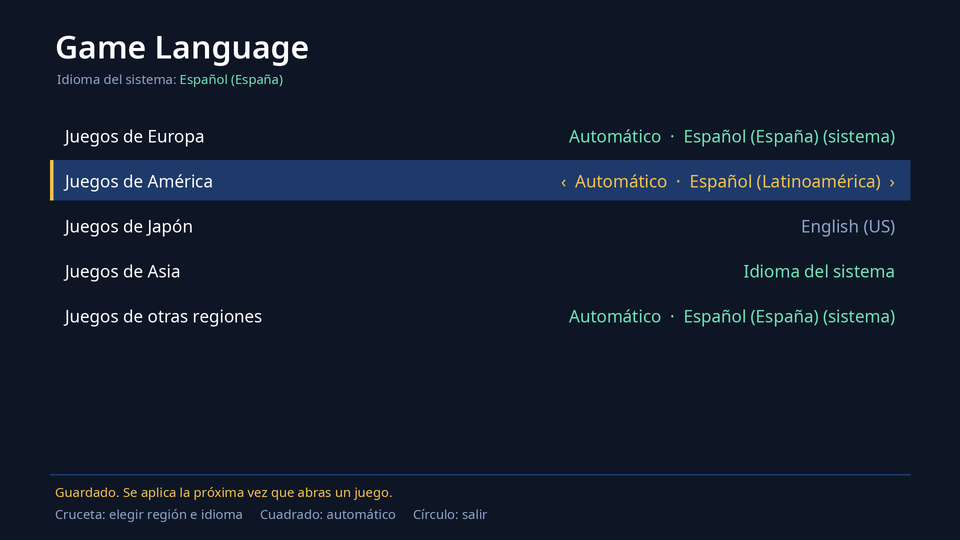
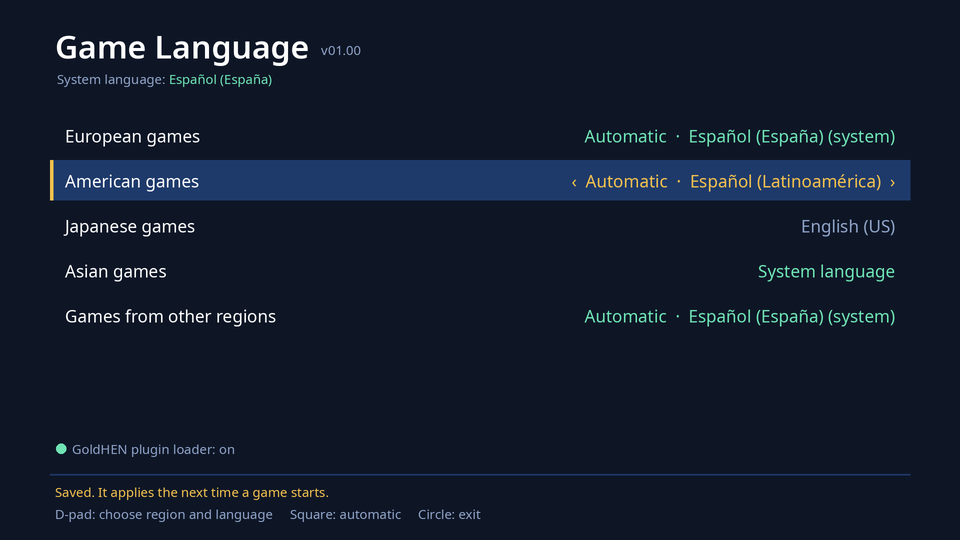
feat: show GoldHEN plugin loader status and list it as a requirement

diff --git a/app/source/main.c b/app/source/main.c
@@ -19,6 +19,7 @@
 #define PRX_DST "/data/GoldHEN/plugins/game_language.prx"
 #define PLUGINS_INI "/data/GoldHEN/plugins.ini"
 #define CONFIG "/data/GoldHEN/game_language.ini"
+#define GOLDHEN_CONFIG "/data/GoldHEN/config.ini"
 
 #define ROW_TOP 230
 #define ROW_H 90
@@ -29,10 +30,11 @@
 #define COLOR_SYSTEM 0x6FE3B4
 #define COLOR_TEXT 0xFFFFFF
 #define COLOR_DIM 0x8FA3C7
+#define COLOR_ERROR 0xF0605D
 
 enum {
     T_SYSTEM_PREFIX, T_AUTO, T_SYSTEM_LANG, T_SYSTEM_TAG, T_HELP, T_PLUGIN_OK, T_PLUGIN_INSTALLED, T_PLUGIN_FAIL,
-    T_PACKAGE_BROKEN, T_SAVED, T_SAVE_FAIL,
+    T_PACKAGE_BROKEN, T_SAVED, T_SAVE_FAIL, T_LOADER_ON, T_LOADER_OFF,
     T_REGION, // + region
     T_COUNT = T_REGION + REGION_COUNT
 };
@@ -42,13 +44,16 @@ static const char *const TEXT[2][T_COUNT] = {
      "D-pad: choose region and language     Square: automatic     Circle: exit", "Plugin ready.",
      "Plugin installed. Restart any game that is open.", "Could not write to /data/GoldHEN. Is GoldHEN running?",
      "The package is incomplete: reinstall it.", "Saved. It applies the next time a game starts.",
-     "Could not save " CONFIG ".",
+     "Could not save " CONFIG ".", "GoldHEN plugin loader: on",
+     "GoldHEN plugin loader: off. Turn it on in GoldHEN settings > Plugin settings.",
      "European games", "American games", "Japanese games", "Asian games", "Games from other regions"},
     {"Idioma del sistema: ", "Automático", "Idioma del sistema", "(sistema)",
      "Cruceta: elegir región e idioma     Cuadrado: automático     Círculo: salir", "Plugin listo.",
      "Plugin instalado. Reinicia los juegos que tengas abiertos.",
      "No se pudo escribir en /data/GoldHEN. ¿Está GoldHEN activo?", "El paquete está incompleto: reinstálalo.",
      "Guardado. Se aplica la próxima vez que abras un juego.", "No se pudo guardar " CONFIG ".",
+     "Cargador de plugins de GoldHEN: activado",
+     "Cargador de plugins de GoldHEN: desactivado. Actívalo en Ajustes de GoldHEN > Plugin settings.",
      "Juegos de Europa", "Juegos de América", "Juegos de Japón", "Juegos de Asia", "Juegos de otras regiones"},
 };
 
@@ -144,6 +149,13 @@ static void draw(void) {
     gfx_text(&g_small_font, x, 140, COLOR_SYSTEM, LANG_NAMES[g_sys_lang], 0);
 
     for (int r = 0; r < REGION_COUNT; r++) draw_row(r, ROW_TOP + r * ROW_H);
+
+    // Read on every redraw so toggling it in GoldHEN shows up without reopening the app.
+    char *goldhen = read_file(GOLDHEN_CONFIG, NULL);
+    int loader_on = goldhen && ini_get_bool(goldhen, "PluginLoader_Enabled") == 1;
+    free(goldhen);
+    gfx_circle(122, 897, 10, loader_on ? COLOR_SYSTEM : COLOR_ERROR);
+    gfx_text(&g_small_font, 144, 880, loader_on ? COLOR_DIM : COLOR_ERROR, t(loader_on ? T_LOADER_ON : T_LOADER_OFF), 0);
 
     gfx_rect(100, 948, 1720, 2, COLOR_ROW);
     gfx_text(&g_small_font, 110, 966, COLOR_ACCENT, t(g_status), 0);

diff --git a/common/plugins_ini.c b/common/plugins_ini.c
@@ -9,6 +9,34 @@ static int line_is(const char *line, size_t len, const char *s) {
     return len == strlen(s) && strncmp(line, s, len) == 0;
 }
 
+static int same_ignoring_case(const char *a, const char *b, size_t len) {
+    for (size_t i = 0; i < len; i++) {
+        char x = a[i] >= 'A' && a[i] <= 'Z' ? a[i] + 32 : a[i], y = b[i] >= 'A' && b[i] <= 'Z' ? b[i] + 32 : b[i];
+        if (x != y) return 0;
+    }
+    return 1;
+}
+
+static int is_blank(char c) { return c == ' ' || c == '\t' || c == '\r'; }
+
+int ini_get_bool(const char *ini, const char *key) {
+    size_t key_len = strlen(key);
+    for (const char *p = ini; *p;) {
+        const char *b = p, *e = p + strcspn(p, "\n");
+        p = e + (*e == '\n');
+        while (b < e && is_blank(*b)) b++;
+        while (e > b && is_blank(e[-1])) e--;
+        const char *eq = memchr(b, '=', (size_t)(e - b)), *key_end = eq;
+        if (!eq) continue;
+        while (key_end > b && is_blank(key_end[-1])) key_end--;
+        if ((size_t)(key_end - b) != key_len || !same_ignoring_case(b, key, key_len)) continue;
+        const char *v = eq + 1;
+        while (v < e && is_blank(*v)) v++;
+        return (e - v == 1 && *v == '1') || (e - v == 4 && same_ignoring_case(v, "true", 4));
+    }
+    return -1;
+}
+
 int plugins_ini_add(const char *ini, const char *entry, char *out, size_t cap) {
     const char *insert_at = NULL;
     for (const char *p = ini; *p;) {

diff --git a/tests/test_common.c b/tests/test_common.c
@@ -89,7 +89,18 @@ static void test_plugins_ini(void) {
     assert(plugins_ini_add("", e, out, 8) == -1);
 }
 
+static void test_ini_get_bool(void) {
+    const char *key = "PluginLoader_Enabled";
+    assert(ini_get_bool("[Settings]\r\npluginloader_enabled = 1\r\n", key) == 1);
+    assert(ini_get_bool("PluginLoader_Enabled=True", key) == 1);
+    assert(ini_get_bool("PluginLoader_Enabled=0\n", key) == 0);
+    assert(ini_get_bool("PluginLoader_Enabled=false\n", key) == 0);
+    assert(ini_get_bool("PluginLoader_EnabledX=1\nFtp=1\n", key) == -1);
+    assert(ini_get_bool("", key) == -1);
+}
+
 int main(void) {
+    test_ini_get_bool();
     test_codes();
     test_resolve();
     test_format_round_trip();

diff --git a/app/source/gfx.c b/app/source/gfx.c
@@ -66,6 +66,12 @@ void gfx_rect(int x, int y, int w, int h, uint32_t rgb) {
         for (int px = x0; px < x1; px++) g_back[py * SCREEN_W + px] = 0xFF000000 | rgb;
 }
 
+void gfx_circle(int cx, int cy, int r, uint32_t rgb) {
+    for (int dy = -r; dy <= r; dy++)
+        for (int dx = -r; dx <= r; dx++)
+            if (dx * dx + dy * dy <= r * r) gfx_rect(cx + dx, cy + dy, 1, 1, rgb);
+}
+
 static uint32_t mix(uint32_t dst, uint32_t src, uint32_t alpha) {
     uint32_t out = 0xFF000000;
     for (int shift = 0; shift <= 16; shift += 8) {

diff --git a/app/source/gfx.h b/app/source/gfx.h
@@ -19,6 +19,7 @@ int font_load(font *f, const char *path, float pixel_height);
 int gfx_init(void);
 void gfx_present(void);
 void gfx_rect(int x, int y, int w, int h, uint32_t rgb);
+void gfx_circle(int cx, int cy, int r, uint32_t rgb);
 // Draws UTF-8 text with its top-left corner at (x, y), cut at max_w pixels (0 = no limit). Returns the width.
 int gfx_text(const font *f, int x, int y, uint32_t rgb, const char *utf8, int max_w);
 int gfx_text_width(const font *f, const char *utf8);

diff --git a/common/plugins_ini.h b/common/plugins_ini.h
@@ -5,3 +5,6 @@
 // Writes `ini` with `entry` added under [default] into `out`.
 // Returns 1 if added, 0 if `entry` was already listed (out untouched), -1 if `out` is too small.
 int plugins_ini_add(const char *ini, const char *entry, char *out, size_t cap);
+
+// Value of a "key=1/true" flag (key matched case-insensitively): 1 if on, 0 if off, -1 if the key is missing.
+int ini_get_bool(const char *ini, const char *key);

diff --git a/README.md b/README.md
@@ -1,32 +1,22 @@
 <p align="center"><img src="docs/banner.svg" alt="Game Language" width="100%"></p>
 
-<p align="center"><a href="#english">English</a> · <a href="#español">Español</a></p>
-
 <p align="center"><img src="docs/app-preview.png" alt="Game Language app (mock-up)" width="90%"></p>
 
-## English
-
-Choose the language PS4 games start in, by the game's region. Needs [GoldHEN](https://github.com/GoldHEN/GoldHEN).
+Choose the language PS4 games start in, by the game's region.
 
 PS4 games from Europe usually include *Español (España)* and games from America *Español (Latinoamérica)*. If your console uses the other one, the game starts in English. Game Language fixes that.
+
+## Requirements
+
+- [GoldHEN](https://github.com/GoldHEN/GoldHEN) with the plugin loader on: GoldHEN settings → Plugin settings → Enable Plugin Loader. The app shows a green dot when it is on.
+
+## Use
 
 1. Install `GameLanguage-v….pkg` from the [latest release](https://github.com/Jorditomasg/ps4-game-language/releases/latest).
 2. Open **Game Language**. It installs its GoldHEN plugin by itself.
 3. Choose a language for each region: **Automatic**, **System language** or any language. Your system language is shown in green.
 
 Changes apply the next time a game starts. The game must include the chosen language.
-
-## Español
-
-Elige el idioma con el que arrancan los juegos de PS4 según la región del juego. Necesita [GoldHEN](https://github.com/GoldHEN/GoldHEN).
-
-Los juegos europeos suelen traer *Español (España)* y los americanos *Español (Latinoamérica)*. Si la consola está en el otro, el juego arranca en inglés. Game Language lo soluciona.
-
-1. Instala `GameLanguage-v….pkg` de la [última versión](https://github.com/Jorditomasg/ps4-game-language/releases/latest).
-2. Abre **Game Language**. Instala su plugin de GoldHEN automáticamente.
-3. Elige un idioma para cada región: **Automático**, **Idioma del sistema** o cualquier idioma. El idioma del sistema sale en verde.
-
-Los cambios se aplican la próxima vez que abras un juego. El juego tiene que incluir el idioma elegido.
 
 ## Build
 
